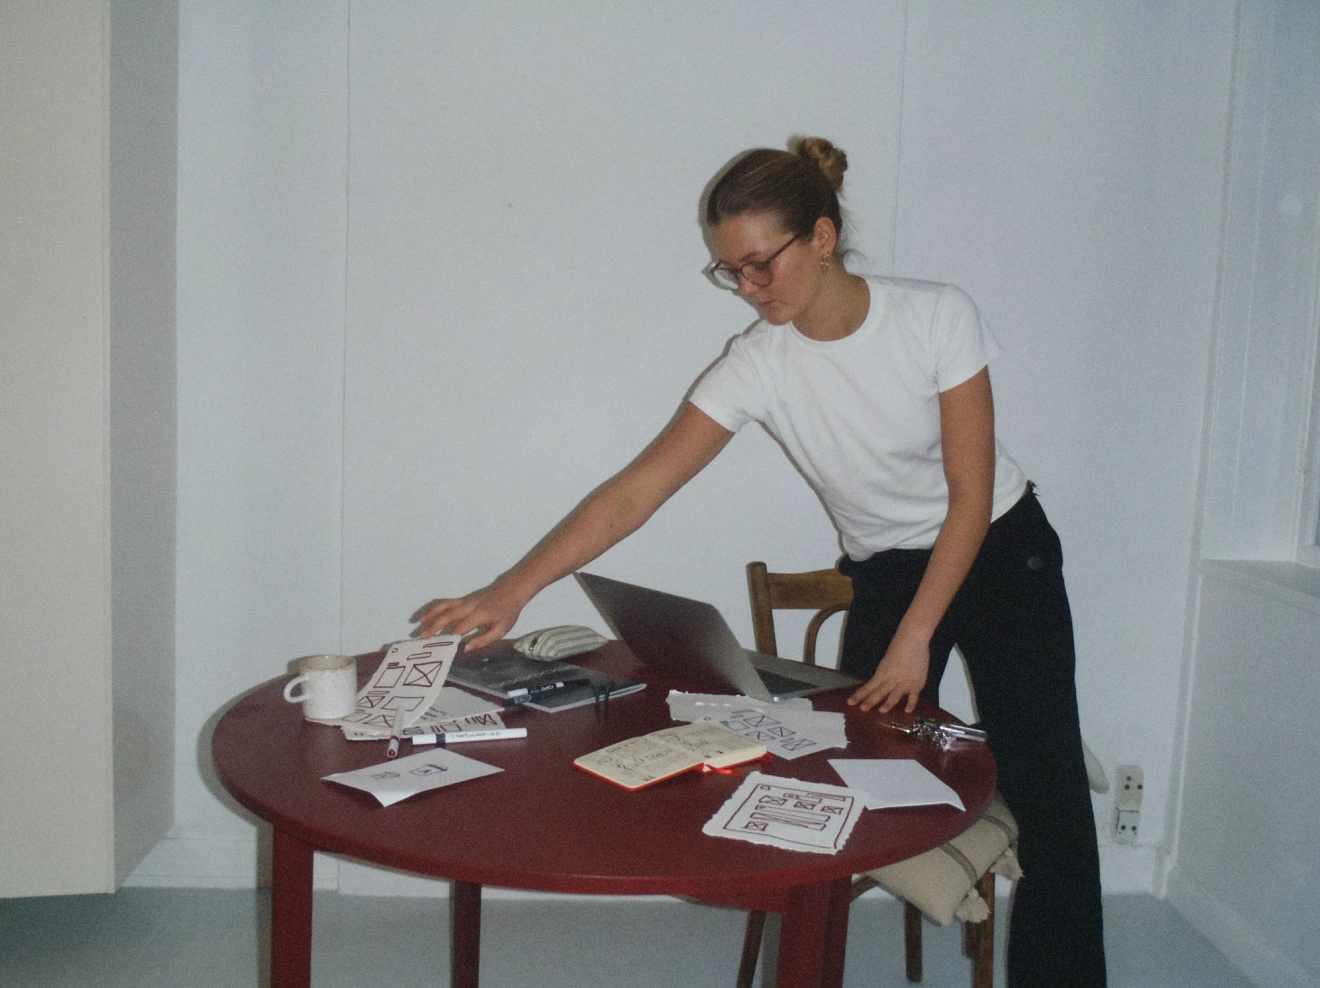
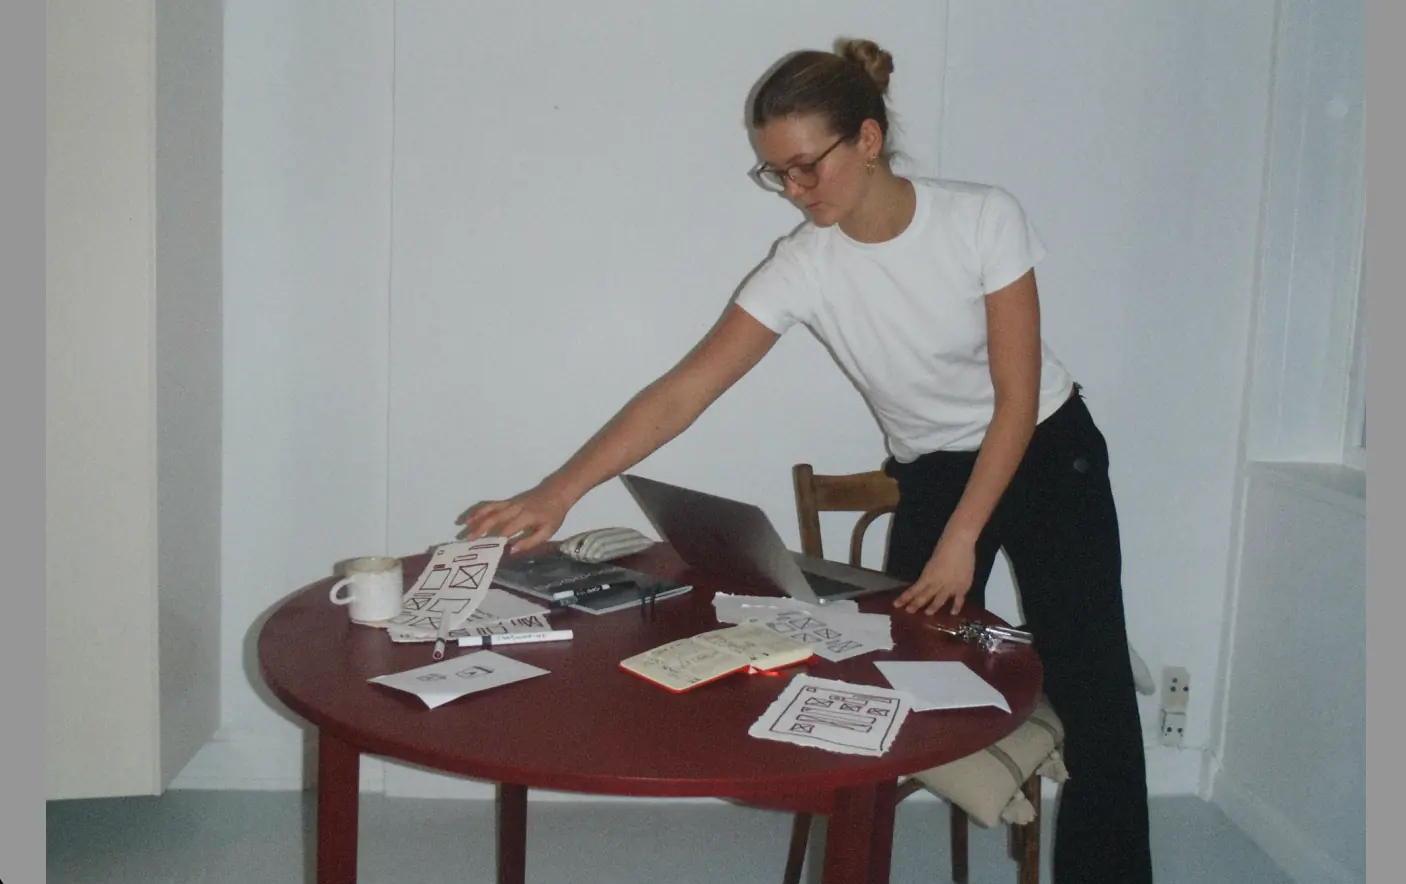
Hero billede

diff --git a/index.css b/index.css
@@ -9,8 +9,17 @@ img {
 
 /***** Hero image *****/
 .hero_image {
-  position: relative; /* Gør det muligt at positionere elementer inde i containeren */
-  height: 70vh;
+  position: relative;
+  height: auto; /* Sæt højden til 70% af skærmhøjden */
+  overflow: hidden; /* Skjul alt uden for containeren */
+  background-size: cover; /* Sørg for, at billedet dækker hele containeren */
+}
+
+@media (min-width: 900px) {
+  .hero_image {
+    height: 90vh; /* Reducer højden yderligere på større skærme */
+    margin-bottom: 3rem;
+  }
 }
 /***** Hero image ******/
 

diff --git a/index.html b/index.html
@@ -29,12 +29,10 @@
 
             </ul>
         </nav>
-
-
     </header>
 
     <div class="hero_image">
-        <div><img src="img/hero_pic_1.webp" alt="hero"></div>
+        <div><img src="img/hero_pic_2.webp" alt="hero"></div>
         <div class="hero_text">
             <h1></h1>
             <p></p>
